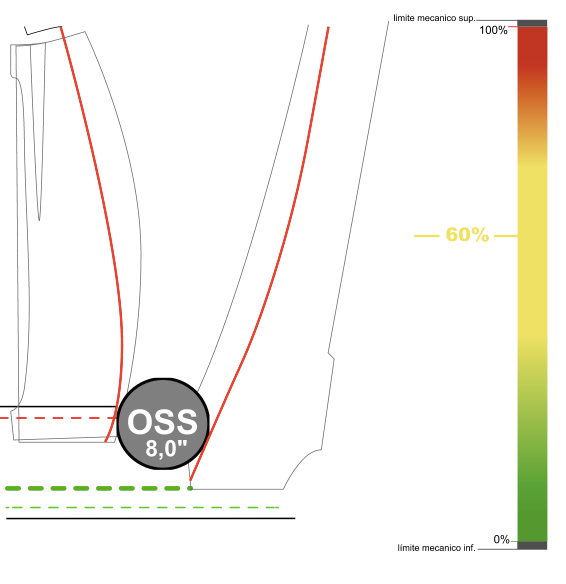
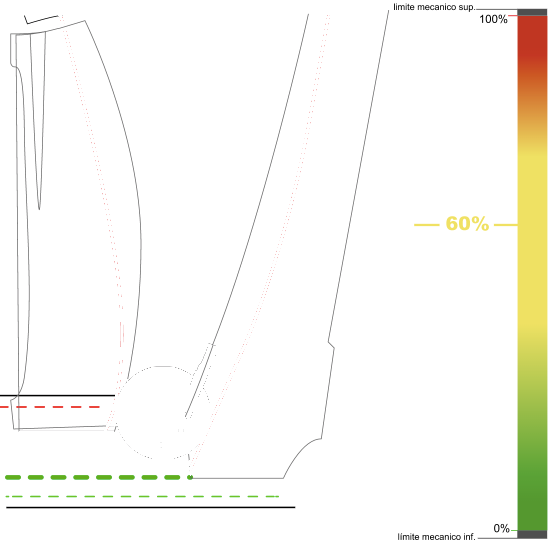
canvas first part

diff --git a/src/components/Common/Calculators/SimManto.jsx b/src/components/Common/Calculators/SimManto.jsx
@@ -149,8 +149,75 @@ const SimManto = props => {
                 </Grid>
               </Grid>
             </Grid>
-            <Grid item xs={12} sm={6} className={classes.InputContent}>
-              Cuatro
+            <Grid item xs={12} sm={4} className={classes.InputContent}>
+              <Typography className={classes.InputLabel}>Recorrido de manto:</Typography>
+              <Grid container spacing={2}  direction="row" justify="center" alignItems="center" style={{height: '100%'}}>
+                <Grid item xs={12} sm={6}>
+                  <Typography className={classes.InputLabel} style={{fontSize:12}}>Recorrido Mecanico:</Typography>
+                  <TextField
+                    placeholder=""
+                    fullWidth
+                    margin="normal"
+                    className={classes.InputText}
+                    InputProps={{
+                      className: classes.input,
+                    }} 
+                  />
+                </Grid>
+                <Grid item xs={12} sm={6} className={classes.BorderSeparationLeft} >
+                  <Typography className={clsx(classes.InputLabel,  classes.SeparationRecorridoManto)} >Margen de seguridad superior:</Typography>
+                  <TextField
+                    placeholder=""
+                    fullWidth
+                    margin="normal"
+                    className={classes.InputText}
+                    InputProps={{
+                      className: classes.input,
+                    }} 
+                  />
+                  <Typography className={clsx(classes.InputLabel,  classes.SeparationRecorridoManto)} >Recorrido electronico:</Typography>
+                  <TextField
+                    placeholder=""
+                    fullWidth
+                    margin="normal"
+                    className={classes.InputText}
+                    InputProps={{
+                      className: classes.input,
+                    }} 
+                  />
+                  <Typography className={clsx(classes.InputLabel,  classes.SeparationRecorridoManto)}>Margen de Seguridad inferior:</Typography>
+                  <TextField
+                    placeholder=""
+                    fullWidth
+                    margin="normal"
+                    className={classes.InputText}
+                    InputProps={{
+                      className: classes.input,
+                    }} 
+                  />
+                </Grid>
+              </Grid>
+            </Grid>
+            <Grid item xs={12} sm={2} className={classes.InputContent} >
+              <Grid container spacing={2} direction="row" justify="center" alignItems="flex-end" style={{height: '100%'}}>
+                <Grid item xs={12} sm={12} align={'left'} className={classes.MarginLeft}>
+                  <Button variant="contained" size="medium" color="primary" className={classes.Button}>
+                    Simular
+                  </Button>
+                  <Typography className={clsx(classes.InputLabel,  classes.SeparationRecorridoManto)}>Altura Simulada:</Typography>
+                  <TextField
+                    placeholder=""
+                    fullWidth
+                    value="8,88'"
+                    margin="normal"
+                    className={classes.InputText}
+                    InputProps={{
+                      className: classes.input,
+                      readOnly: true,
+                    }} 
+                  />
+                </Grid>
+              </Grid>
             </Grid>
         </Grid>
       </Paper>

diff --git a/src/components/Common/CanvasImg/src/useCanvas.jsx b/src/components/Common/CanvasImg/src/useCanvas.jsx
@@ -1,0 +1,42 @@
+import { useRef, useEffect } from "react";
+
+const updateCanvasSize = (canvas, context) => {
+  const { width, height } = canvas.getBoundingClientRect();
+
+  if (canvas.width !== width || canvas.height !== height) {
+    const { devicePixelRatio: ratio = 1 } = window;
+    canvas.width = width * ratio;
+    canvas.height = height * ratio;
+    context.scale(ratio, ratio);
+    return true;
+  }
+
+  return false;
+};
+
+const useCanvas = (draw, options = {}) => {
+  const canvasRef = useRef(null);
+
+  useEffect(() => {
+    const canvas = canvasRef.current;
+    const context = canvas.getContext(options.context || "2d");
+    let frameCount = 0;
+    let animationFrameId;
+
+    const render = () => {
+      frameCount++;
+      updateCanvasSize(canvas, context);
+      draw(context, frameCount);
+      animationFrameId = window.requestAnimationFrame(render);
+    };
+    render();
+
+    return () => {
+      window.cancelAnimationFrame(animationFrameId);
+    };
+  }, [draw]);
+
+  return canvasRef;
+};
+
+export default useCanvas;

diff --git a/src/components/Common/CanvasImg/CanvasImg.jsx b/src/components/Common/CanvasImg/CanvasImg.jsx
@@ -1,0 +1,50 @@
+import React from "react"
+import { useStyles } from "./style"
+import  Canvas from "./src"
+import setting1 from "../../../assets/img/fake/setting1.png"
+
+let img = new Image
+
+const draw = (ctx, frameCount) => {
+
+  
+  img.src = setting1 
+
+  // ctx.drawImage(img, 0, 0, ctx.canvas.width, ctx.canvas.height)
+
+  ctx.beginPath()
+  ctx.moveTo(0,5)
+  ctx.lineTo(100,100)
+  ctx.lineTo(0,263)
+  ctx.moveTo(200,5)
+  ctx.lineTo(150,100)
+  ctx.lineTo(210,263)
+  ctx.stroke() 
+  ctx.strokeStyle = "#FF0000"
+  ctx.lineCap = 'round'
+  ctx.lineWidth = 2 
+  ctx.lineJoin = 'round'
+  ctx.closePath();
+
+  ctx.beginPath()
+  ctx.arc(125, 260, 25, 0, Math.PI * 2, false);
+  ctx.strokeStyle = "skyblue";
+  ctx.lineWidth = 2;
+  ctx.stroke();
+  ctx.closePath()
+}
+
+const CanvasImg = props => {
+  const classes = useStyles()
+  return (
+    <React.Fragment>
+      <Canvas draw={draw} width={400} height={400}/>
+    </React.Fragment>
+  )
+}
+
+CanvasImg.propTypes = {
+    
+}
+
+export { CanvasImg }

diff --git a/src/components/Common/Calculators/style.jsx b/src/components/Common/Calculators/style.jsx
@@ -9,6 +9,7 @@ export const useStyles = makeStyles(theme => ({
   },
   Button: {
     marginTop: theme.spacing(3),
+    padding: theme.spacing(2,2,2,2),
     background: '#0057B8 0% 0% no-repeat padding-box',
     border: '1px solid #707070',
     borderRadius: '10px',
@@ -27,6 +28,7 @@ export const useStyles = makeStyles(theme => ({
     background: '#fff',
     borderRadius: 10,
     marginTop: theme.spacing(1),
+    padding: theme.spacing(1, 2, 1, 2)
   },
   InputLabel: {
     textAlign: 'left',
@@ -76,4 +78,15 @@ export const useStyles = makeStyles(theme => ({
   formControl: {
     padding: theme.spacing(1)
   },
+  SeparationRecorridoManto: {
+    fontSize: 12,
+    marginTop: theme.spacing(2),
+  },
+  MarginLeft: {
+    marginLeft: theme.spacing(3)
+  },
+  BorderSeparationLeft: {
+    borderLeft: '2px solid #fff',
+    marginBottom: theme.spacing(2)
+  }
 }));

diff --git a/src/components/Setting/Setting.jsx b/src/components/Setting/Setting.jsx
@@ -4,6 +4,7 @@ import { useStyles } from "./style"
 import { Information } from "../Common/"
 
 import { BarChart } from "./charts/BarChart"
+import { CanvasImg } from '../Common/CanvasImg/CanvasImg'
 
 import setting1 from "../../assets/img/fake/setting1.png"
 import setting2 from "../../assets/img/fake/setting2.png"
@@ -32,7 +33,7 @@ const Setting = props => {
         </Grid>
         <Grid item xs={12} sm={4}>
           <Paper elevation={3} className={classes.imgCenter}>
-            <img src={setting1} alt={"setting1"} style={{ width: "70%" }} />
+            <CanvasImg />
           </Paper>
         </Grid>
         <Grid item xs={12} sm={6}>

diff --git a/src/components/Common/CanvasImg/src/Canvas.jsx b/src/components/Common/CanvasImg/src/Canvas.jsx
@@ -1,0 +1,29 @@
+import React from "react";
+import PropTypes from "prop-types";
+import useCanvas from "./useCanvas";
+
+const Canvas = props => {
+  const { draw, options, ...rest } = props;
+  const canvasRef = useCanvas(draw, options);
+
+  return <canvas ref={canvasRef} {...rest} />;
+};
+
+Canvas.defaultProps = {
+  draw: () => {}
+};
+
+Canvas.propTypes = {
+  draw: PropTypes.func.isRequired,
+  options: PropTypes.shape({
+    context: PropTypes.oneOf([
+      "2d",
+      "webgl",
+      "experimental-webgl",
+      "webgl2",
+      "bitmaprenderer"
+    ])
+  })
+};
+
+export default Canvas;

diff --git a/src/components/Common/CanvasImg/style.jsx b/src/components/Common/CanvasImg/style.jsx
@@ -1,0 +1,5 @@
+import { makeStyles } from "@material-ui/core/styles";
+
+export const useStyles = makeStyles(theme => ({
+  root: {},
+}));

diff --git a/src/components/Common/CanvasImg/src/index.jsx b/src/components/Common/CanvasImg/src/index.jsx
@@ -1,0 +1,2 @@
+export { default } from "./Canvas";
+export { default as useCanvas } from "./useCanvas";
